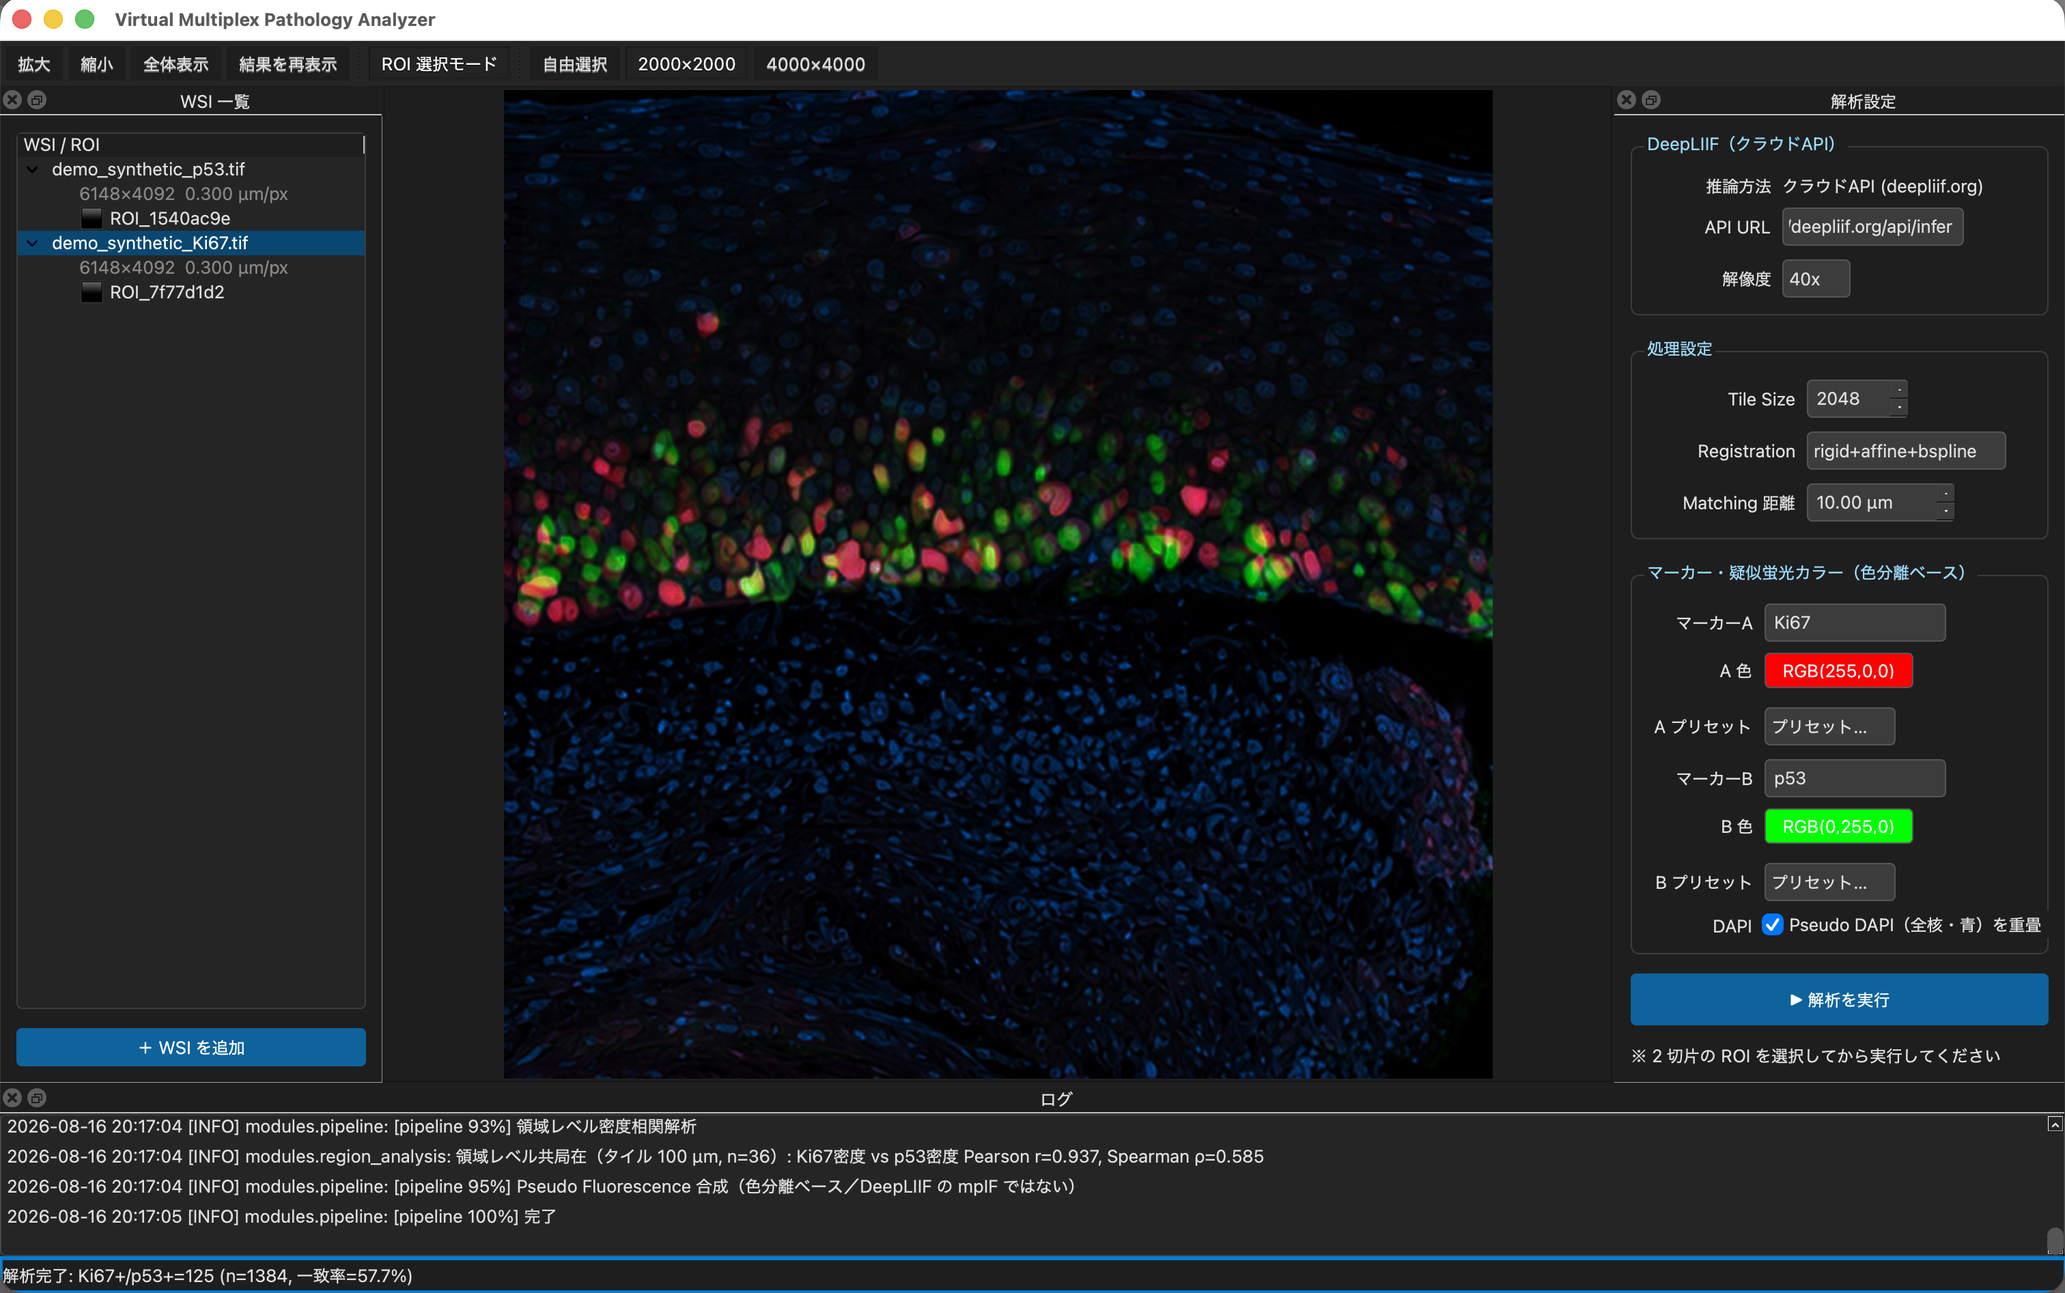
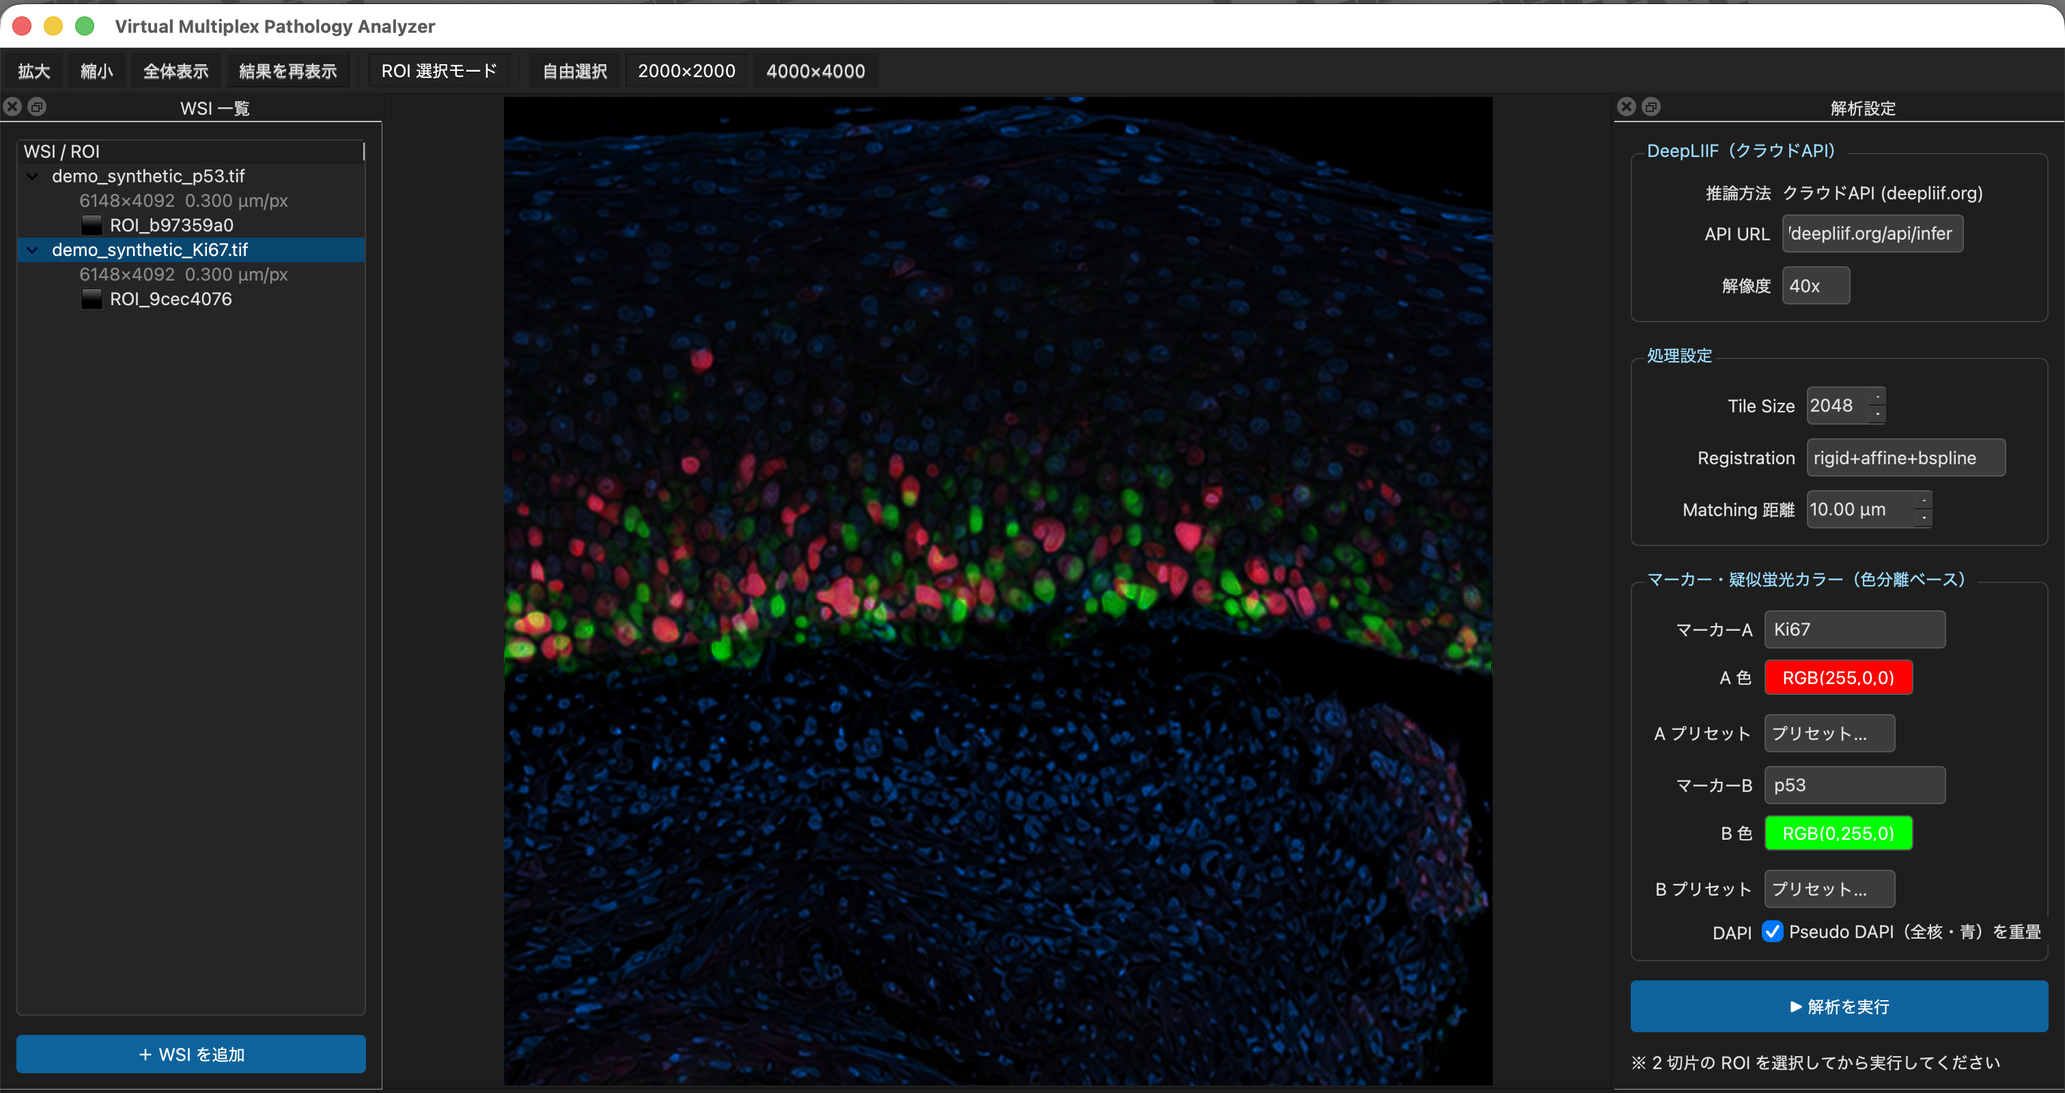
Fix B-spline registration, label overlays by section, add Related work

diff --git a/modules/visualization.py b/modules/visualization.py
@@ -85,26 +85,73 @@ def cell_overlay(
     background_rgb: np.ndarray,
     cells,
     show_ids: bool = True,
-    positive_color: str = "#ff3b30",
-    negative_color: str = "#34c759",
-    title: str = "Cell Overlay",
+    positive_color: str = "#ffffff",
+    negative_color: str = "#8e8e93",
+    title: Optional[str] = None,
+    marker: Optional[str] = None,
+    section_note: str = "",
+    legend: bool = True,
 ):
     """背景画像に細胞重心と（任意で）ID を重畳表示する.
+
+    背景は通常 Pseudo Fluorescence の Merge 画像であり、そのチャネル色
+    （既定では赤・緑・青）と点の色が紛れないよう、陽性=白塗り・陰性=灰色の
+    輪郭という無彩色で描く。どの切片の検出結果かをタイトルと凡例に明記する。
 
     Args:
         background_rgb: 背景 RGB 画像。
         cells: :class:`~modules.datatypes.Cell` のリスト。
         show_ids: セル ID を描画するか（クリック対応表示の下地）。
+        positive_color: 陽性細胞の点の色。
+        negative_color: 陰性細胞の点の色。
+        title: 図タイトル。``None`` なら ``marker`` から自動生成する。
+        marker: この細胞群を検出した切片のマーカー名（例: "Ki67"）。
+        section_note: タイトルに添える補足（例: "registered to Ki67"）。
+        legend: 凡例を描くか。
     """
+    from matplotlib.lines import Line2D
+
     fig, ax = _new_axes()
     ax.imshow(background_rgb)
+    n_pos = n_neg = 0
     for cell in cells:
         x, y = cell.centroid_px
-        color = positive_color if cell.positive else negative_color
-        ax.plot(x, y, "o", markersize=3, markerfacecolor=color, markeredgecolor="white", markeredgewidth=0.3)
+        if cell.positive:
+            n_pos += 1
+            ax.plot(x, y, "o", markersize=3.2, markerfacecolor=positive_color,
+                    markeredgecolor="black", markeredgewidth=0.4)
+        else:
+            n_neg += 1
+            ax.plot(x, y, "o", markersize=3.0, markerfacecolor="none",
+                    markeredgecolor=negative_color, markeredgewidth=0.6)
         if show_ids:
             ax.text(x + 2, y - 2, cell.id[:4], color="white", fontsize=5)
+
+    if title is None:
+        if marker:
+            title = f"Cell detection - {marker} section"
+            if section_note:
+                title += f" ({section_note})"
+        else:
+            title = "Cell Overlay"
     ax.set_title(title, color="white", fontsize=10, loc="left", pad=6)
+    # _new_axes は上余白 0 のため、そのままではタイトルが図外に切れる
+    fig.subplots_adjust(top=0.955)
+
+    if legend:
+        label = marker or "marker"
+        handles = [
+            Line2D([], [], linestyle="none", marker="o", markersize=6,
+                   markerfacecolor=positive_color, markeredgecolor="black",
+                   label=f"{label}-positive (n={n_pos})"),
+            Line2D([], [], linestyle="none", marker="o", markersize=6,
+                   markerfacecolor="none", markeredgecolor=negative_color,
+                   label=f"{label}-negative (n={n_neg})"),
+        ]
+        leg = ax.legend(handles=handles, loc="lower right", fontsize=7,
+                        facecolor="black", edgecolor="#666666", framealpha=0.75)
+        for text in leg.get_texts():
+            text.set_color("white")
     return fig
 
 

diff --git a/modules/registration.py b/modules/registration.py
@@ -188,15 +188,63 @@ class Registrar:
         return sitk.CompositeTransform([init, out])
 
     def _bspline(self, fixed, moving, init) -> "sitk.Transform":
-        """B-Spline による非剛体位置合わせ。"""
+        """B-Spline による非剛体位置合わせ。
+
+        最適化は「1 反復あたりの移動量を物理単位で上限づけた勾配降下」で行う。
+
+        経緯:
+            * 以前の LBFGS2 は、Mattes MI（ランダム抽出）と組み合わせると画像に
+              よっては初回の直線探索で "insufficient reduction" となり反復 0 回で
+              終了し、B-spline 変形が常にゼロ（＝実質 rigid+affine）になっていた。
+            * 上限なしの勾配降下＋直線探索では、画素間隔によって発散した。
+            そこで 1 歩を 1 画素（物理単位）以内に制限し、さらに異常に大きな
+            変形が出た場合は B-spline を破棄して init（rigid+affine）に戻す。
+        """
         moving_pre = self._resample(moving, fixed, init)
         mesh = [8, 8]
         bspline = sitk.BSplineTransformInitializer(fixed, mesh)
         R = self._base_method()
         R.SetInitialTransformAsBSpline(bspline, inPlace=True, scaleFactors=[1, 2, 4])
-        R.SetOptimizerAsLBFGS2(numberOfIterations=100)
+        step = float(max(fixed.GetSpacing()))  # 1 画素ぶんの物理長
+        R.SetOptimizerAsGradientDescent(
+            learningRate=1.0, numberOfIterations=100,
+            convergenceMinimumValue=1e-6, convergenceWindowSize=10,
+            estimateLearningRate=R.EachIteration,
+            maximumStepSizeInPhysicalUnits=step,
+        )
+        R.SetOptimizerScalesFromPhysicalShift()
         out = R.Execute(fixed, moving_pre)
+
+        # 安全装置: 最大変位が画像の一辺の 5% を超えたら非剛体を採用しない
+        size_phys = min(
+            n * sp for n, sp in zip(fixed.GetSize(), fixed.GetSpacing())
+        )
+        max_disp = self._max_bspline_displacement(out, fixed)
+        if not np.isfinite(max_disp) or max_disp > 0.05 * size_phys:
+            logger.warning(
+                "B-spline の変形が過大（最大 %.1f / 許容 %.1f）のため破棄し、"
+                "rigid+affine の結果を使用します", max_disp, 0.05 * size_phys,
+            )
+            return init
+        logger.info("B-spline 最大変位 %.2f（物理単位）", max_disp)
         return sitk.CompositeTransform([init, out])
+
+    @staticmethod
+    def _max_bspline_displacement(tr, reference) -> float:
+        """B-spline 変換の最大変位（物理単位）を粗いグリッド上で見積もる。"""
+        try:
+            size = reference.GetSize()
+            ys = np.linspace(0, size[1] - 1, 32)
+            xs = np.linspace(0, size[0] - 1, 32)
+            mx = 0.0
+            for y in ys:
+                for x in xs:
+                    p = reference.TransformContinuousIndexToPhysicalPoint((float(x), float(y)))
+                    q = tr.TransformPoint(p)
+                    mx = max(mx, float(np.hypot(q[0] - p[0], q[1] - p[1])))
+            return mx
+        except Exception:  # noqa: BLE001  # pragma: no cover
+            return float("inf")
 
     # ------------------------------------------------------------------
     # ユーティリティ

diff --git a/tests/test_registration.py b/tests/test_registration.py
@@ -92,3 +92,53 @@ def test_apply_transform_preserves_label_dtype() -> None:
     assert np.issubdtype(warped.dtype, np.integer)
     # warp 後のラベル集合は元のラベル集合の部分集合（線形補間による中間値が出ない）
     assert set(np.unique(warped)).issubset(set(np.unique(seg_b)))
+
+
+
+def _demo_hematoxylin(name: str) -> np.ndarray:
+    """docs/demo_source の合成画像から一部を切り出し、ヘマトキシリン成分を返す。"""
+    from pathlib import Path
+
+    from PIL import Image
+    from skimage.color import rgb2hed
+
+    path = Path(__file__).resolve().parents[1] / "docs" / "demo_source" / name
+    if not path.exists():
+        pytest.skip(f"{path} がありません")
+    rgb = np.asarray(Image.open(path).convert("RGB"))[145:545, 777:1177] / 255.0
+    h = rgb2hed(rgb)[..., 0]
+    return ((h - h.min()) / (h.max() - h.min()) * 255).astype(np.float32)
+
+
+def test_bspline_stage_is_bounded_and_improves_alignment() -> None:
+    """B-spline 段が「動かない」「発散する」のどちらにもならないこと.
+
+    以前の LBFGS2 は画像によって反復 0 回で止まり変形ゼロになり、上限なしの
+    勾配降下は画素間隔によって発散した。デモ用の合成 Ki67/p53 ペアで、
+    (1) 変形が非ゼロかつ有界、(2) rigid+affine より組織の一致度が上がる、
+    ことを確認する。
+    """
+    import SimpleITK as sitk
+
+    f = _demo_hematoxylin("Ki67_demo.png")
+    m = _demo_hematoxylin("p53_demo.png")
+    reg = Registrar(method="rigid+affine+bspline")
+    fe, me = reg._to_sitk(f), reg._to_sitk(m)
+    lin = reg._affine(fe, me, reg._rigid(fe, me, sitk.Transform(2, sitk.sitkIdentity)))
+    full = reg._bspline(fe, me, lin)
+    assert full is not lin, "B-spline が破棄された（過大変形）"
+
+    disp = reg._max_bspline_displacement(
+        sitk.CompositeTransform(full).GetNthTransform(
+            sitk.CompositeTransform(full).GetNumberOfTransforms() - 1
+        ),
+        fe,
+    )
+    assert 0.5 < disp < 0.05 * min(f.shape), f"最大変位 {disp:.2f}px が範囲外"
+
+    def ncc(tr) -> float:
+        w = sitk.GetArrayFromImage(sitk.Resample(me, fe, tr, sitk.sitkLinear, 0.0))
+        a, b = f - f.mean(), w - w.mean()
+        return float((a * b).sum() / np.sqrt((a * a).sum() * (b * b).sum()))
+
+    assert ncc(full) > ncc(lin)

diff --git a/gui/main_window.py b/gui/main_window.py
@@ -525,8 +525,18 @@ class MainWindow(QMainWindow):
                 density_heatmap(
                     np.array([c.centroid_px for c in result.cells_a]) if result.cells_a else np.empty((0, 2)),
                     result.merged_rgb.shape[:2],
+                    title=f"Nucleus density (all detected nuclei) - {self.settings.marker_a} section",
                 ),
-                cell_overlay(result.merged_rgb, result.cells_a, show_ids=False),
+                # どちらの切片の検出結果かを図内に明記し、両切片とも出力する
+                cell_overlay(
+                    result.merged_rgb, result.cells_a, show_ids=False,
+                    marker=self.settings.marker_a,
+                ),
+                cell_overlay(
+                    result.merged_rgb, result.cells_b, show_ids=False,
+                    marker=self.settings.marker_b,
+                    section_note=f"registered to {self.settings.marker_a}",
+                ),
             ]
             # Cell Matching 妥当性の図（観測 vs ランダム対照 + 閾値感度）
             if diag is not None and getattr(diag, "observed", None) is not None:

diff --git a/README.md b/README.md
@@ -73,6 +73,46 @@ surfaced in the output rather than hidden:
 - **Region-level co-localization** (tile-based density correlation) is
   the recommended primary readout for serial-section IHC pairs.
 
+## Related work
+
+Registering serial sections and combining them into a virtual multiplex
+image is an established technique, and this project does not claim
+methodological novelty. If your main need is accurate registration of
+many slides, the tools below are more mature and are recommended:
+
+- **VALIS** — Python tool that registers brightfield and/or
+  immunofluorescence whole-slide images, including multi-gigapixel
+  slides, and writes the aligned, multiplexed result as OME-TIFF.
+  Gatenbee CD *et al.* Virtual alignment of pathology image series for
+  multi-gigapixel whole slide images. *Nat Commun* 14, 2023.
+  [doi:10.1038/s41467-023-40218-9](https://doi.org/10.1038/s41467-023-40218-9) ·
+  <https://github.com/MathOnco/valis>
+- **Warpy** — links QuPath, Fiji and elastix so that whole-slide images
+  can be aligned (with manual correction via BigWarp) and regions of
+  interest transferred between slides in QuPath.
+  Chiaruttini N *et al.* An open-source whole slide image registration
+  workflow at cellular precision using Fiji, QuPath and Elastix.
+  *Front Comput Sci* 3:780026, 2022.
+  [doi:10.3389/fcomp.2021.780026](https://doi.org/10.3389/fcomp.2021.780026)
+- **Hyper-Stain Inspector** — two-stage registration of serial
+  histology whole-slide images followed by localised co-expression
+  analysis across differently stained sections, the closest in aim to
+  this project.
+  Trahearn N *et al.* *Sci Rep* 7:5641, 2017.
+  [doi:10.1038/s41598-017-05511-w](https://doi.org/10.1038/s41598-017-05511-w)
+
+What this project adds is narrower: a no-code GUI that runs without a
+local GPU (via the DeepLIIF cloud API), and an output that always reports
+whether cell-level matching is distinguishable from chance alongside the
+region-level readout.
+
+Like any serial-section approach, it cannot establish co-localization
+**within a nucleus** — for example, the relationship between nuclear
+foci of two proteins. Adjacent sections a few micrometers apart show
+different parts of a nucleus, or different nuclei altogether.
+Sub-nuclear co-localization requires multiplex staining of the same
+section.
+
 ## Screenshots
 
 The following walkthrough uses an AI-generated synthetic Ki67 / p53 pair
@@ -87,8 +127,8 @@ registration `rigid+affine+bspline`, matching distance 10.00 µm.
 ![Main window](docs/images/01_main_window.png)
 
 Four-pane layout: WSI list (left), viewer (center), analysis settings
-(right), log (bottom). Dimensions and mpp of each loaded slide are shown
-in the list.
+(right), and a log pane at the bottom (cropped out of these screenshots).
+Dimensions and mpp of each loaded slide are shown in the list.
 
 *Input is an AI-generated synthetic image, not patient data.*
 
@@ -117,13 +157,27 @@ DeepLIIF Virtual IF.
 
 *Input is an AI-generated synthetic image, not patient data.*
 
-### 4. Cell detection overlay
+### 4. Cell detection overlays (one per section)
 
-![Cell detection overlay](docs/images/04_cell_overlay.png)
+| Ki67 section (fixed image) | p53 section (registered to Ki67) |
+|---|---|
+| ![Cell detection, Ki67 section](docs/images/04a_cell_overlay_ki67.png) | ![Cell detection, p53 section](docs/images/04b_cell_overlay_p53.png) |
 
-Individual nuclei obtained by watershed splitting of the DeepLIIF
-`SegRefined` mask, colored by positivity (red = positive,
-green = negative). A density heatmap is produced alongside it.
+Nuclei obtained by watershed splitting of the DeepLIIF `SegRefined` mask,
+drawn separately for each section. Each figure states which section it
+shows, and its legend gives the positive / negative counts for that
+marker: **filled white = positive, gray ring = negative**.
+
+The dots are deliberately colorless. The background is the
+pseudo-fluorescence merge, whose channels are colored (Ki67 red, p53
+green, nuclei blue), so colored dots would be easy to misread as channel
+signal. The Ki67 section is the fixed image in registration, so its
+coordinates are the original ones; the p53 cells are shown after warping
+into the Ki67 frame.
+
+The report also includes a nucleus-density heatmap for the Ki67 section.
+It counts **all detected nuclei**, positive and negative alike — it is
+not a positive-cell density map.
 
 *Input is an AI-generated synthetic image, not patient data.*
 
@@ -133,21 +187,30 @@ green = negative). A density heatmap is produced alongside it.
 
 | Metric | Value |
 |---|---|
-| Matched cells | 1384 (match rate 57.7%) |
-| Median nearest-neighbor distance, observed | 4.27 µm |
-| Median nearest-neighbor distance, random null | 5.68 µm |
-| Separation | 0.248 |
+| Matched cell pairs | 1298 (match rate 57.9%) |
+| Median nearest-neighbor distance, observed | 4.65 µm |
+| Median nearest-neighbor distance, random null | 5.34 µm |
+| Separation | 0.129 |
+| Verdict | **Not distinguishable from chance** |
 
-The threshold-sensitivity panel on the right is the informative one.
-**The co-positive rate stays essentially flat (≈0.09) across matching
-thresholds from 1 to 15 µm.** If co-positivity reflected genuine
-same-cell co-expression, tightening the threshold should raise it. The
-flatness instead indicates that what is being measured is **region-level
-co-localization**, consistent with the limitation described above.
+For this field the app concludes that cell-level matching is **not
+distinguishable from chance**, and therefore that the co-positive rate is
+not evidence of same-cell co-expression. That is the correct answer: the
+two synthetic images were generated independently and have no cell-level
+correspondence by construction.
 
-This field is also a concrete illustration of why separation alone is
-not sufficient: separation is clearly positive (0.248) even though the
-two synthetic sections have no cell-level correspondence by construction.
+The threshold-sensitivity panel on the right supports the same reading.
+If co-positivity reflected genuine same-cell co-expression, tightening
+the matching threshold should *raise* the co-positive rate. Instead it
+stays **flat at about 0.06–0.08 across thresholds from 1 to 15 µm**
+(slightly lower at the tightest thresholds; the 1 µm point rests on only
+70 pairs, so treat it as noisy).
+
+Note also that separation is still positive (0.129) even though there is
+no correspondence. This is the density-gradient effect described under
+"Honest limitations": the observed distribution is shifted toward shorter
+distances simply because both sections have a dense epithelium and a
+sparser stroma.
 
 *Input is an AI-generated synthetic image, not patient data.*
 
@@ -158,19 +221,21 @@ two synthetic sections have no cell-level correspondence by construction.
 Positive-cell density is computed per 100 µm tile and correlated between
 the two markers. This is the recommended primary readout.
 
-| Metric | Value (n = 36 tiles) |
+| Metric | Value |
 |---|---|
-| Pearson r | 0.937 |
-| Spearman ρ | 0.585 |
-| Ki67+ index | 0.132 |
-| p53+ index | 0.149 |
-| Co-positive overlap | 0.475 |
+| Pearson r (n = 36 tiles) | 0.807 |
+| Spearman ρ (n = 36 tiles) | 0.729 |
+| Ki67+ index (matched cells) | 0.164 |
+| p53+ index (matched cells) | 0.183 |
+| Co-positive overlap (Jaccard) | 0.297 |
 
-Both coefficients are reported deliberately. In this ROI a handful of
-high-density tiles from the basal layer sit far from a cluster of
-low-density tiles near the origin, so Pearson is strongly influenced by
-those few points. **The more conservative Spearman ρ = 0.585 should be
-read as the effective lower bound.**
+Both heatmaps place the positive cells in the same horizontal band — the
+basal layer — and the scatter plot reflects that shared layout.
+
+Both coefficients are reported deliberately. Most tiles fall in a cluster
+of low densities near the origin, and a handful of basal-layer tiles sit
+further out, so Pearson is sensitive to those few points. **Read the
+rank-based Spearman ρ = 0.729 as the more conservative figure.**
 
 *Input is an AI-generated synthetic image, not patient data. These
 numbers are for demonstration and do not represent diagnostic
